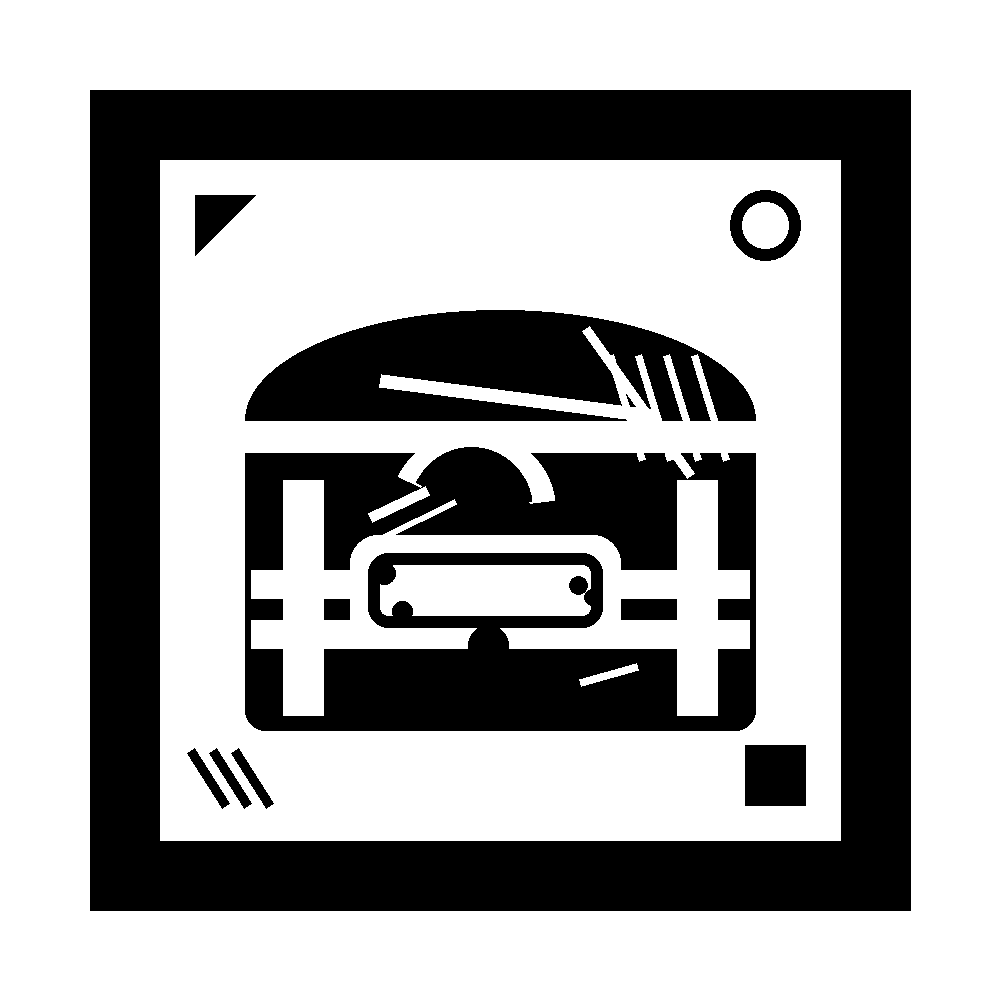
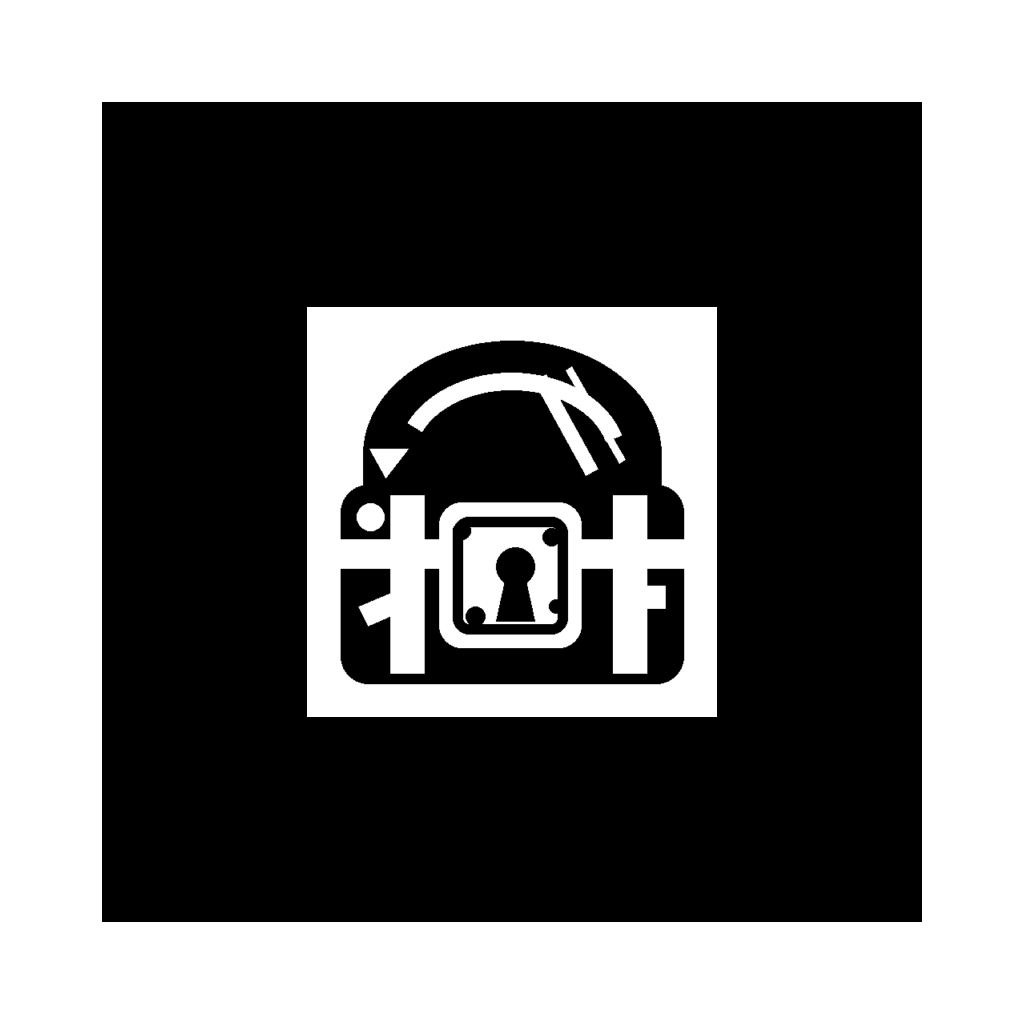
other fix

diff --git a/public/index.html b/public/index.html
@@ -28,12 +28,12 @@
     embedded
     vr-mode-ui="enabled: false"
     renderer="antialias: true; alpha: true"
-    arjs="sourceType: webcam; debugUIEnabled: false; detectionMode: mono;"
+    arjs="sourceType: webcam; debugUIEnabled: false; detectionMode: mono; patternRatio: 0.5;"
   >
     <a-marker
       id="marker"
       type="pattern"
-      url="/pattern-chest.patt"
+      url="/pattern-chest-v2.patt"
       emitevents="true"
       smooth="true"
       smooth-count="12"

diff --git a/public/anchor.html b/public/anchor.html
@@ -143,7 +143,7 @@
     <div class="sheet">
       <div class="marker-block">
         <div id="title" class="marker-title">O Cofre Escondido</div>
-        <img class="marker-image" src="/chest-marker.png" alt="Marqueur AR coffre noir et blanc" />
+        <img class="marker-image" src="/chest-marker-v2.png" alt="Marqueur AR coffre noir et blanc" />
       </div>
 
       <div class="tracking-note">

diff --git a/public/app.js b/public/app.js
@@ -90,7 +90,7 @@ let lastMarkerSeenAt = 0;
 
 // Keep the last valid marker pose briefly when tracking flickers.
 // This prevents the letter from flashing off while the lock is still visible.
-const TRACKING_GRACE_MS = 1000;
+const TRACKING_GRACE_MS = 2000;
 
 function copyMarkerPose() {
   if (!marker?.object3D || !contentAnchor?.object3D) {